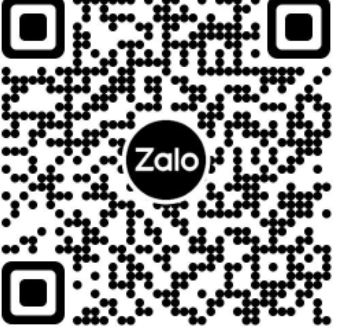
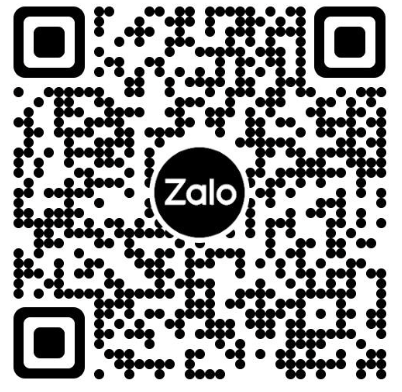
Feat: Updated phone number

diff --git a/layouts/default.vue b/layouts/default.vue
@@ -59,7 +59,12 @@
     name: "DefaultLayout",
     data() {
       return {
-        listNumber: ["+84 582 341 948", "+84 587 832 546", "+84 582 141 733"],
+        listNumber: [
+          "+84 582 341 948",
+          "+84 587 832 546",
+          "+84 817 790 471",
+          "+84 815 202 879"
+        ],
         overlay: false,
         absolute: false,
         opacity: 0.9,
@@ -81,7 +86,7 @@
       }
     },
     mounted() {
-      this.random = Math.floor(Math.random() * (3 - 1 + 1) + 1)
+      this.random = Math.floor(Math.random() * (4 - 1 + 1) + 1)
     }
   }
 </script>
